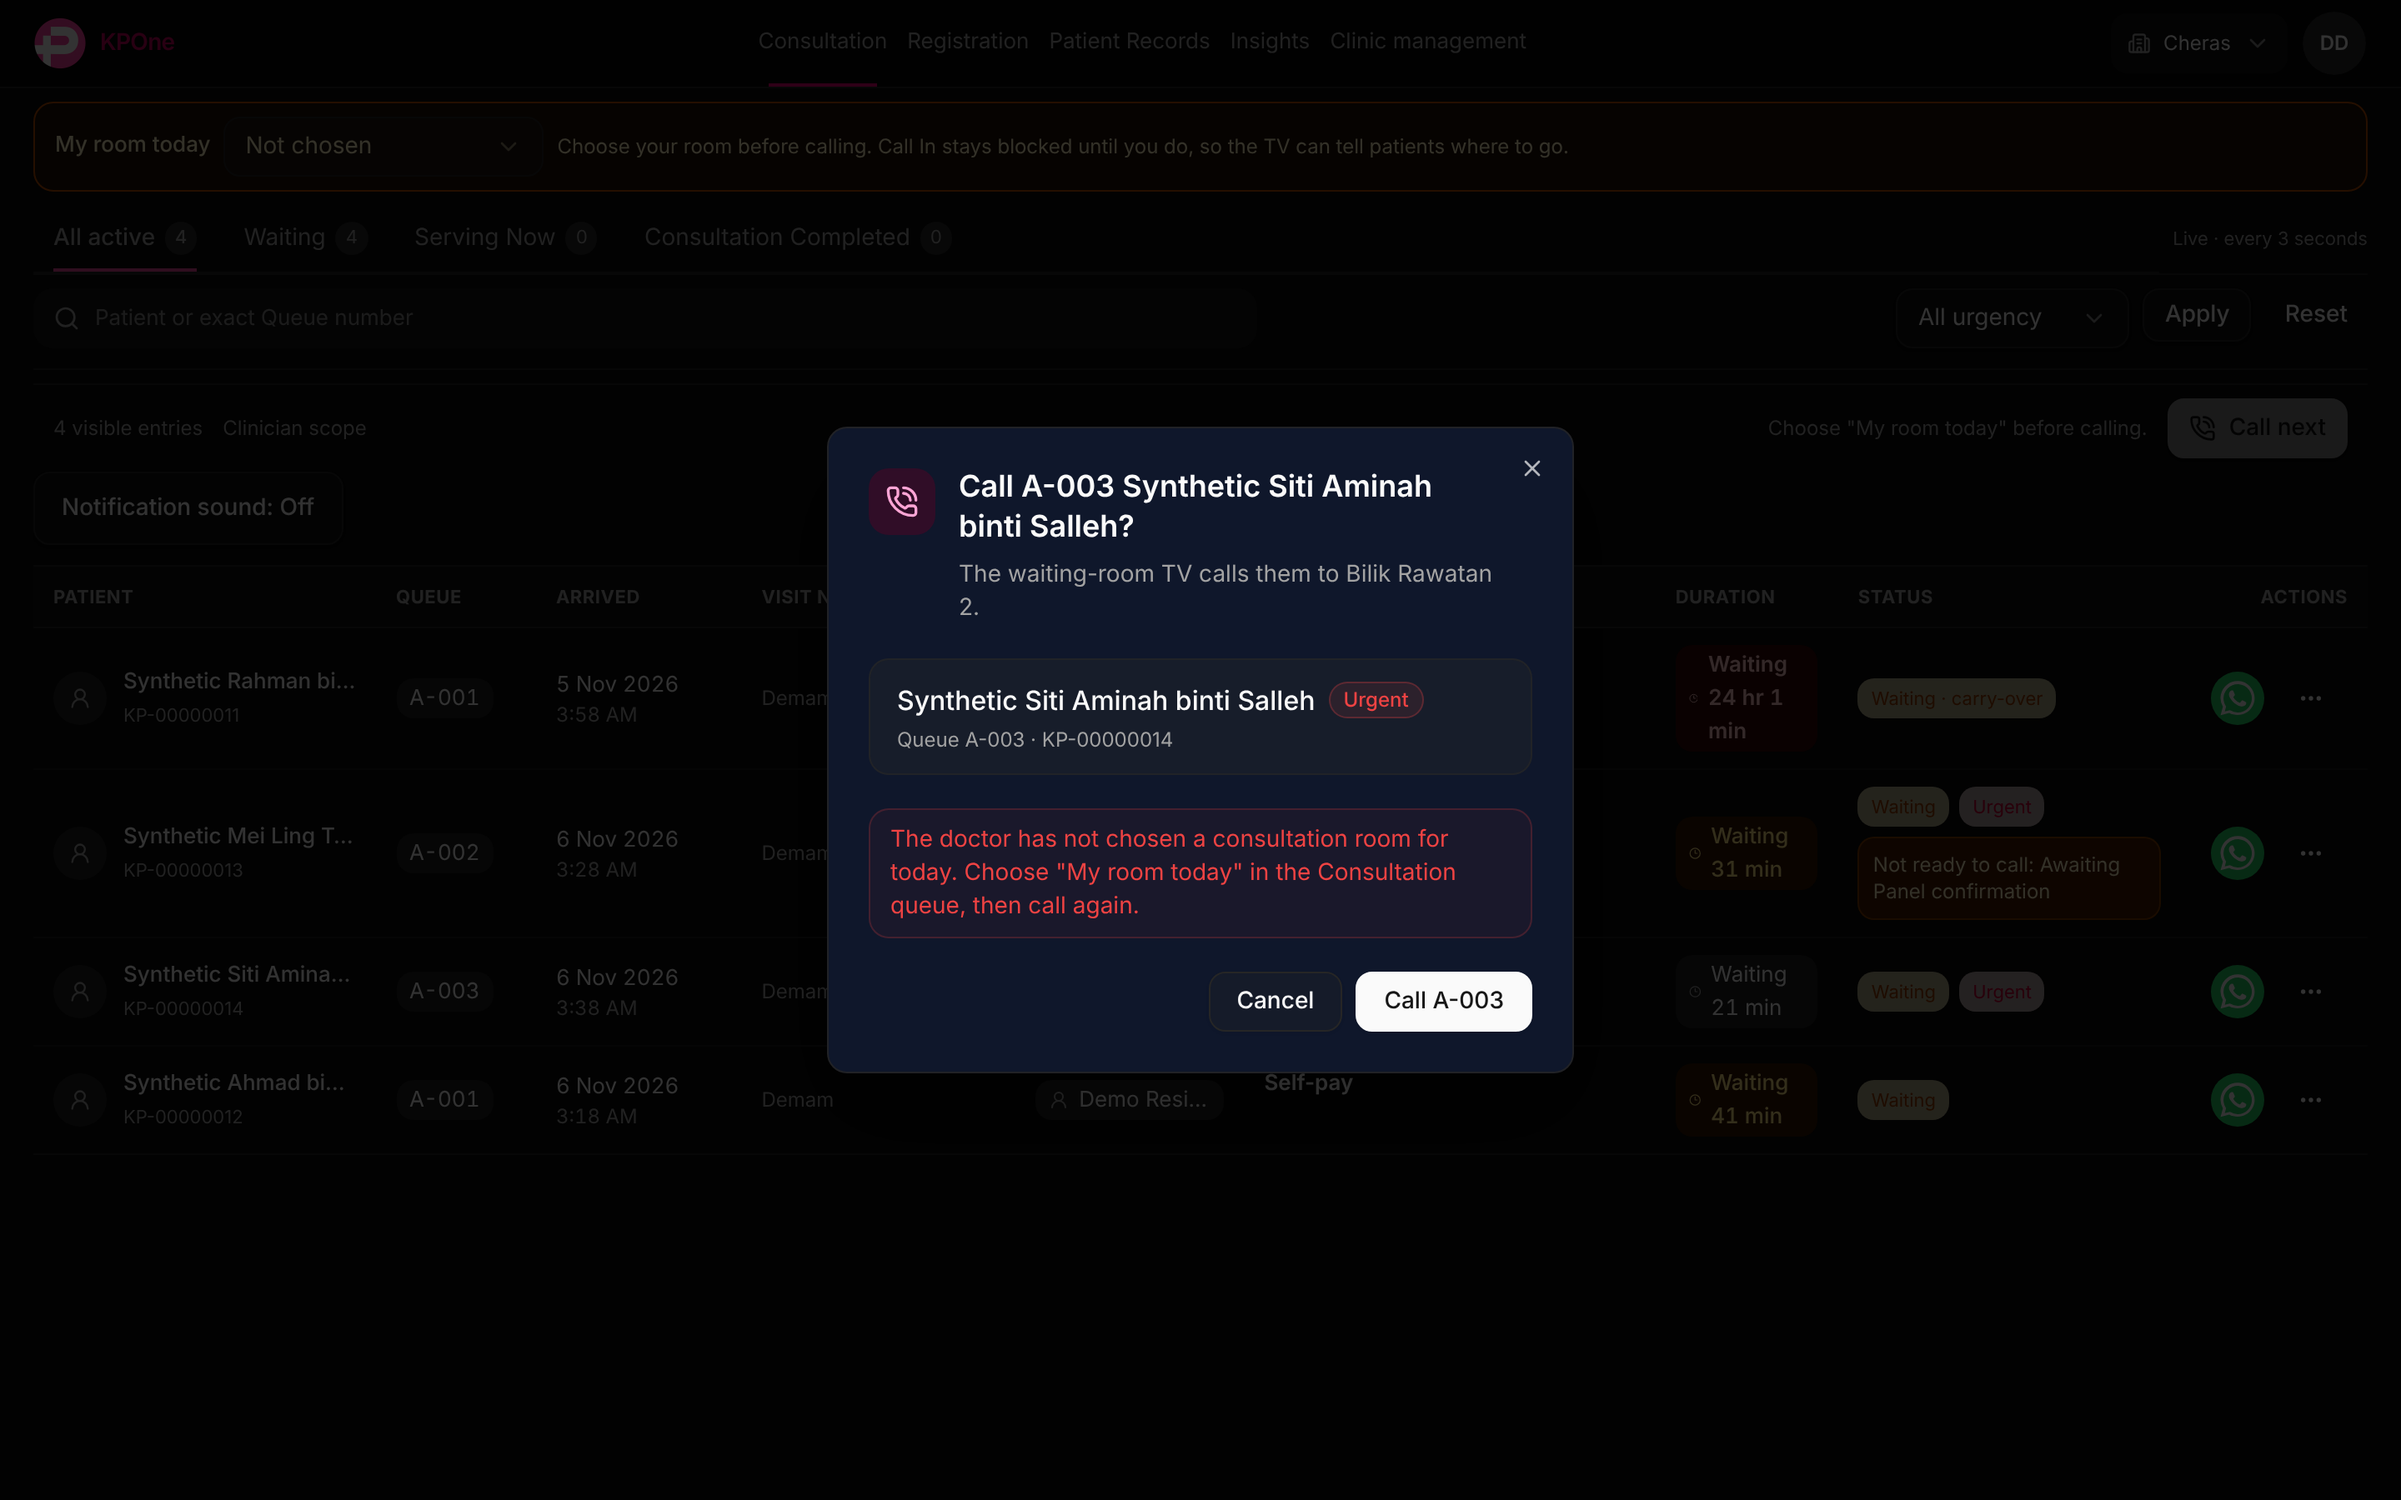
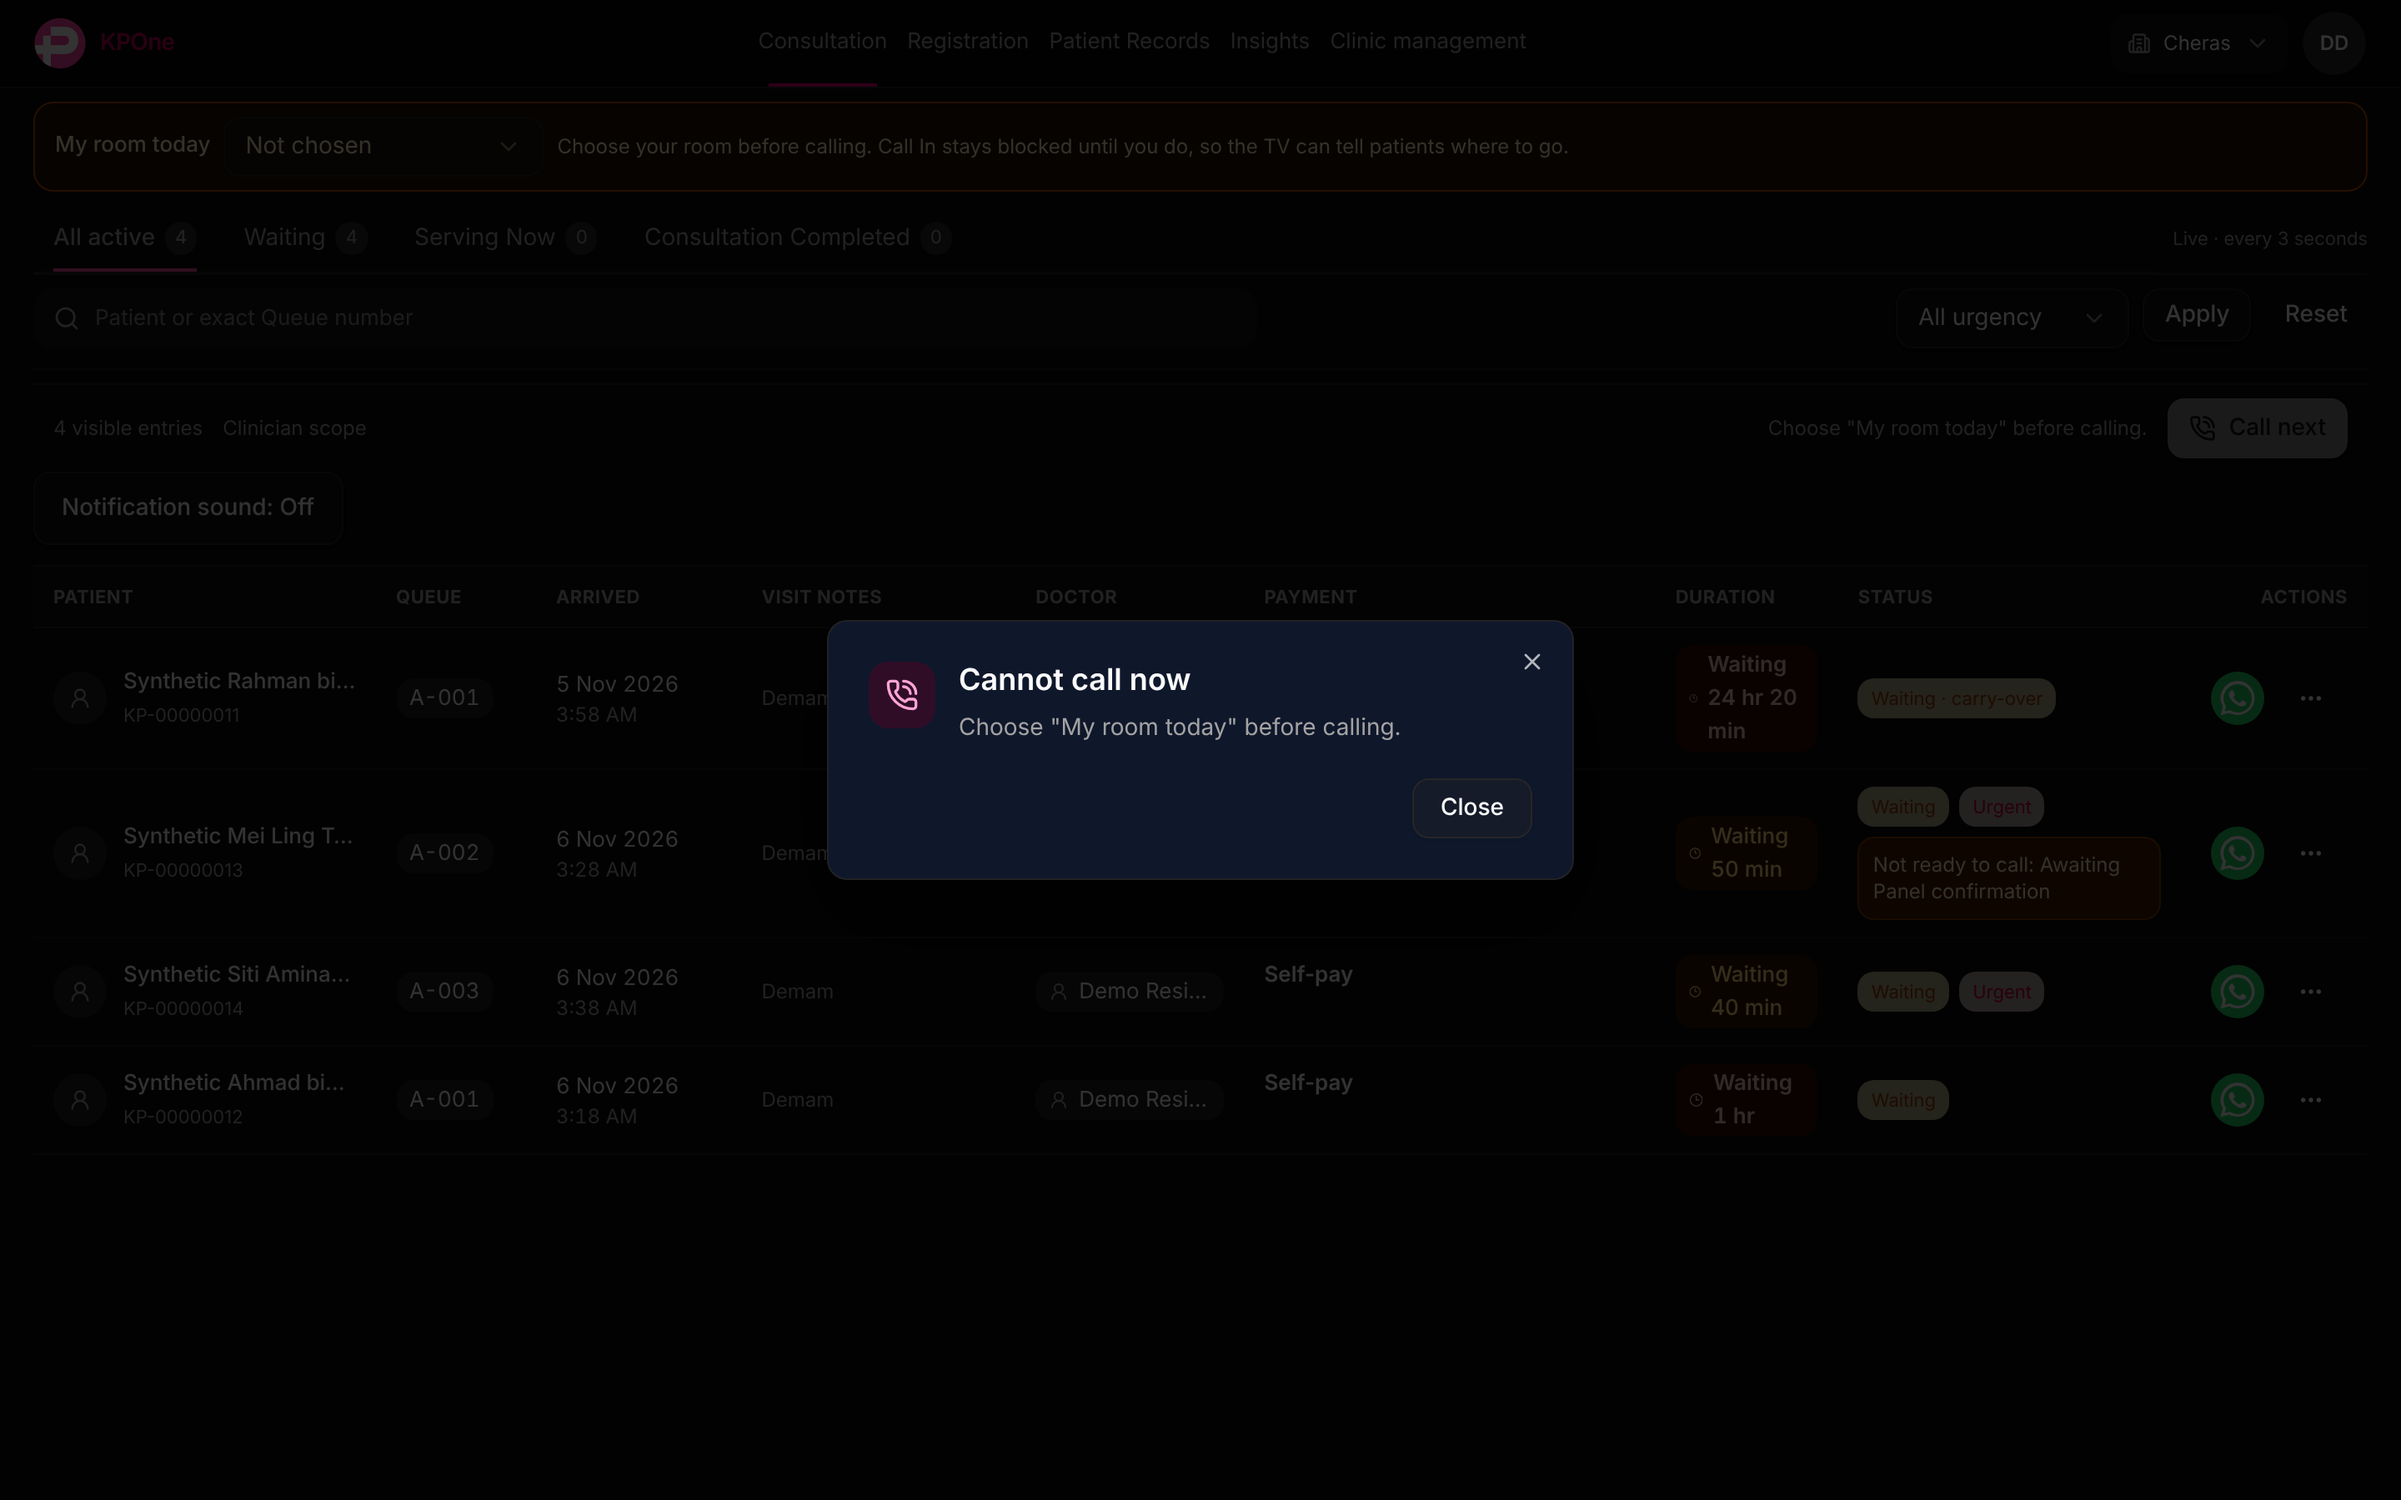
Q-4: after a refusal that blocks calling, show why and offer only Close
Daniel's review: a room refusal left the room line and an enabled Call button
beside the error. The dialog now re-checks the board and shows "Cannot call
now" with the reason; a passing error keeps the Call button.

Claude-Session: https://claude.ai/code/session_01MHFmnYonysroHahVHHGCan

Changed region(s): [[0.3438, 0.28, 0.6562, 0.4978], [0.3438, 0.5289, 0.6562, 0.7156], [0.7188, 0.7156, 0.75, 0.7467]]

diff --git a/resources/js/components/queue/CallNextControl.vue b/resources/js/components/queue/CallNextControl.vue
@@ -41,6 +41,7 @@ const confirmed = ref<CallNextCandidate | null>(null);
 const confirmedDoctorId = ref<number | null>(null);
 const gone = ref(false);
 const goneReason = ref('');
+const goneTitle = ref('Nobody to call');
 /** Visible, muted line under the patient card; the same words go to the live region. */
 const notice = ref('');
 const processing = ref(false);
@@ -66,6 +67,7 @@ const start = () => {
     confirmedDoctorId.value = props.block.doctorUserId;
     gone.value = false;
     goneReason.value = '';
+    goneTitle.value = 'Nobody to call';
     error.value = '';
     notice.value = '';
     liveMessage.value = '';
@@ -86,7 +88,11 @@ const focusTitle = async () => {
 };
 const latestCandidate = () =>
     props.block.state === 'ready' ? props.block.candidate : null;
-const showLatest = async () => {
+/**
+ * Re-poll and show the latest state. After "no longer next" this swaps to the new patient; after any other refusal
+ * (for example the room was cleared) it shows why nobody can be called now, with Close as the only action.
+ */
+const showLatest = async (refusal?: string) => {
     let next: CallNextCandidate | null = null;
 
     try {
@@ -101,6 +107,7 @@ const showLatest = async () => {
         }
     } catch {
         error.value =
+            refusal ??
             'The queue could not be reloaded. Close this and try again.';
 
         return;
@@ -109,7 +116,14 @@ const showLatest = async () => {
     if (next === null) {
         // The real reason: nobody left, the doctor became busy, or the room was cleared.
         goneReason.value =
-            props.block.reason ?? 'Nobody is waiting who can be called now.';
+            props.block.reason ??
+            refusal ??
+            'Nobody is waiting who can be called now.';
+        goneTitle.value = ['none_waiting', 'all_not_ready'].includes(
+            props.block.state,
+        )
+            ? 'Nobody to call'
+            : 'Cannot call now';
         gone.value = true;
         error.value = '';
         notice.value = '';
@@ -120,8 +134,10 @@ const showLatest = async () => {
     }
 
     if (sameCandidate(next, confirmed.value)) {
-        // The board had not caught up yet; never call silently, ask for another press.
+        // The same patient is still next: show the refusal, or ask for another press if the board had not caught
+        // up yet. Never call silently.
         error.value =
+            refusal ??
             'The queue changed. Check the patient and press Call again.';
 
         return;
@@ -173,9 +189,12 @@ const submit = () => {
                     return;
                 }
 
-                error.value =
+                const refusal =
                     Object.values(errors)[0] ??
                     'The patient could not be called.';
+                error.value = refusal;
+                // Daniel: re-check, so a refusal that blocks calling (no room, busy) leaves only Close.
+                void showLatest(refusal).catch(() => undefined);
             },
             onFinish: () => {
                 processing.value = false;
@@ -242,7 +261,7 @@ onBeforeUnmount(() => clearTimeout(pauseTimer));
                             class="text-lg leading-6 break-words outline-none"
                             >{{
                                 gone || !confirmed
-                                    ? 'Nobody to call'
+                                    ? goneTitle
                                     : callNextTitle(confirmed)
                             }}</DialogTitle
                         >
